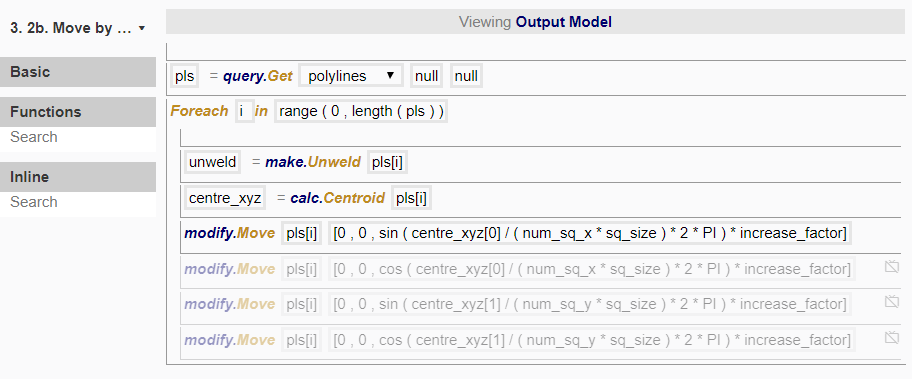
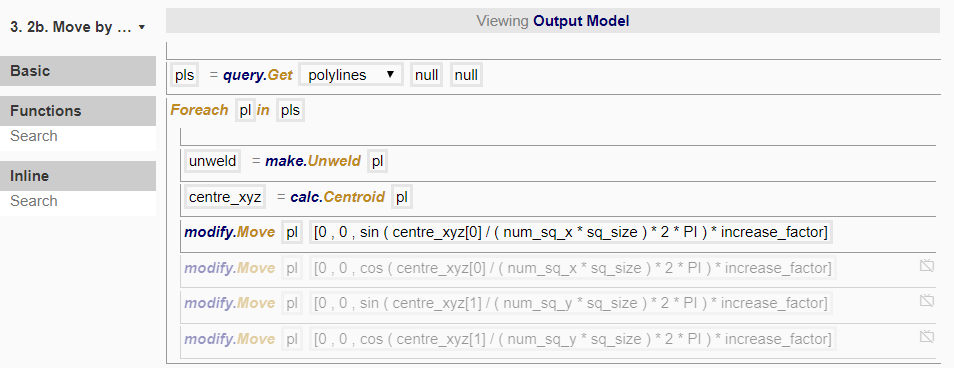
upd

Changed region(s): [[0.0, 0.1196, 1.0, 1.0], [0.4912, 0.0299, 0.6754, 0.0897], [0.0, 0.0598, 0.1535, 0.0897]]

diff --git a/contents/chapter6/6.4.3.node1.md b/contents/chapter6/6.4.3.node1.md
@@ -12,5 +12,56 @@ To do so, we created the following procedure:
 
 In order to create an alternating checkerboard pattern for the extrusion, we disable the first foreach loop and enable the second. 
 
-![Procedure](./imgs/6.4.3-example3-node1-checkerboard.png)
+![Checkerboard](./imgs/6.4.3-example3-node1-checkerboard.png)
 
+## Foreach loop
+
+Here, we are using a slightly different input for the arguments in the foreach loop. Instead of `Foreach pl in pls`, we use `Foreach i in range(0,length(pls))`. Let's break this down further.
+
+The inline function of length(list) gives the length of a list. So `length(pls)` gives the length of the list, also known as the number of polylines in the list. 
+
+The inline function of range(min,max) creates a list of numbers from min to max. So `range(0,length(pls))` creates a list of numbers starting from zero, and the number of numbers in this list is equal to the number of polylines. 
+
+As a result, *pls[0]* gives the first polyline, *pls[1]* gives the second polyline and so on, till *pls[number of polylines -1]* gives the last polyline. In order to refer to each of the polyline, we use `pls[i]`, where `i` will be equal to 0, 1, 2, 3,...number of polylines-1. 
+
+## Logic 
+
+Here we do not want to create extrusions for all the polylines, but rather only do so in a checkerboard pattern. Accordingly, we need to choose which polylines to extrude, and we can do so by creating a condition based on their index *i*. 
+
+*i* = 0 for the first polyline;
+*i* = 1 for the second polyline;
+*i* = 2 for the third polyline;...
+
+If we use `i%2==0`, the '%' sign is the modulo function, which roughly translates to "the remainder after dividing". So, `If i%2==0` means "if the remainder of *i* divided by 2 has a value equal to 0". 
+
+Setting this as the condition would return the values of *i* = 0, 2, 4, 6,... which are all even numbers. 
+
+![i%2==0](./imgs/6.4.3-example3-node1-i2even.png)
+
+Setting the condition as `If i%2==1` gives values of *i* = 1, 3, 5, 7,... which are all odd numbers. 
+
+![i%2==1](./imgs/6.4.3-example3-node1-i2odd.png)
+
+By using `If floor(i/10)%2==0`, floor(i/10) would mean rounding down the result to the nearest integer for i/10. As a result, 
+
+* *i*= 0, 1, 2, 3, 4, 5, 6, 7, 8, 9 would give `floor(i/10)`=0;
+* *i*= 10, 11, 12, 13, 14, 15, 16, 17, 18, 19 would give `floor(i/10)`=1;
+* *i*= 20, 21, 22, 23, 24, 25, 26, 27, 28, 29 would give `floor(i/10)`=2; and so on.
+
+So `If floor(i/10)%2==0` would return *i* = 0-9, 20-29, and so on. 
+
+![floor(i/10) % 2 == 0](./imgs/6.4.3-example3-node1-floori10.png)
+
+If we want to combine both alternating sequences for rows and columns, we need to use the operator '&&'. `If A = true &&B = true` means both A **and** B has to be true. If we only need either condition to be true, we will use `If A = true || B = true`, where '||' means **or**. 
+
+![floor(i/10) % 2 == 0 && i%2 == 1](./imgs/6.4.3-example3-node1-and1.png)
+
+Combining both the **and** and the **or** conditions, we get:
+`floor ( i / 10 ) % 2 == 0&&i % 2 == 1||floor ( i / 10 ) % 2 == 1&&i % 2 == 0`
+
+which in simple language means:
+if "remainder of (*i* divided by 10) divided by 2 is 0 AND remainder of *i* divided by 2 is 1" OR if "remainder of (*i* divided by 10) divided by 2 is 1 AND remainder of *i* divided by 2 is 0"
+
+This condition gives the final result of the checkerboard pattern. 
+
+![Final condition](./imgs/6.4.3-example3-node1-finalchecker.png)

diff --git a/contents/chapter6/6.3.4.node2.md b/contents/chapter6/6.3.4.node2.md
@@ -9,6 +9,18 @@ To do so, we created the following procedure:
 
 ![Procedure](./imgs/6.3.4-example2-node2-procedure.png)
 
-Using different combinations of z_displ would produce different translations:
+## degToRad
+
+We have used the inline function degToRad here to convert "wave_shift", which is in degrees, to radians, as the sincoswave function uses radians. Since all existing functions use radians, you can also use this inline function if you prefer to use degrees instead of radians directly. 
+
+## Export
+
+util.ExportData allows you to export the model geometry in the geo-info (gi) format or the obj format. The gi format is specific to Möbius and we will export the geometry to be used in Example 3. 
+
+Once you export the geometry, you are able to use it directly by importing it without the need to run all the lines of code used to create it. This is helpful if you have already fixed certain parameters at desired values, and want the remaining transformations to be executed faster in the program (since it uses the geometry directly without computing it). However, the downside is that you are no longer able to use the previous sliders that you created to vary the output, since the geometry is fixed at the values at the point of exporting. 
+
+## Variations
+
+In Example 1 Node 2c, we mentioned that you are able to use different combinations by adding them in the argument itself. Here, instead of creating many modify.Move functions, using different combinations of z_displ would produce different translations:
 
 ![Variations](./imgs/6.3.4-example2-node2-variations.gif)

diff --git a/contents/chapter6/6.2.5.node2c.md b/contents/chapter6/6.2.5.node2c.md
@@ -1,6 +1,6 @@
 # Node 2c
 
-In this node, we want to move each rectangle upwards depending on its position in the grid, in a way such that it the overall pattern resembles a combination of the results of nodes 3a and 3b. 
+In this node, we want to move each rectangle upwards depending on its position in the grid, in a way such that it the overall pattern resembles a combination of the results of nodes 2a and 2b. 
 
 ![Result](./imgs/6.2.5-example1-node2c-endresult.png)
 *Top: (1) sin(x)+y (2) cos(x)+y (3) sin(x)+x+y (4) cos(x)+x+y*
@@ -10,6 +10,18 @@ To do so, we created the following procedure:
 
 ![Procedure](./imgs/6.2.5-example1-node2c-procedure.png)
 
-Enabling and disabling different combinations of lines would produce different translations:
+## Combination of values
+
+In the procedure above, we copied and pasted the lines of functions from nodes 2a and 2b to this node. 
+
+Enabling and disabling different combinations of these lines would produce different translations:
 
 ![Variations](./imgs/6.2.5-example1-node2c-variations.gif)
+
+However, if we know with certainty what we wish to produce as an end result, instead of having multiple lines of code, we can combine the values. 
+
+For example, if we have the folllowing two lines: 
+* `modify.Move( pls[i], [0, 0, a] )` and 
+* `modify.Move( pls[i], [0, 0, b] )`, 
+
+We can simply use `modify.Move( pls[i], [0, 0, a+b] )` instead to replace the two lines of code. 

diff --git a/contents/chapter6/6.4.4.node2.md b/contents/chapter6/6.4.4.node2.md
@@ -7,3 +7,9 @@ In this node, we want to rotate the model from lying on the horizontal plane to 
 To do so, we created the following procedure:
 
 ![Procedure](./imgs/6.4.4-example3-node2-procedure.png)
+
+First, we get the polylines and polygons in the model (i.e. all the geometry in the model, since these are the only two that we have created so far) using the query.Get function. Each query gives us a list of IDs. 
+
+Next, we combine the list of IDs into a single list by list.Concat, which is short for concatenate. This creates a single list with all the IDs of both polylines and polygons.
+
+Lastly, we rotate all these geometry by the y-axis around the origin by -PI/2 (or -90 degrees). 

diff --git a/contents/chapter6/6.3.1.startnode.md b/contents/chapter6/6.3.1.startnode.md
@@ -2,7 +2,7 @@
 
 ## Input parameters
 
-We will maintain the two sliders and one simple input for variables *num_sq_x*, *num_sq_y*, *sq_size*, *increase_factor* and *decrease_factor* from Example 1.
+We will maintain the two sliders and three simple inputs for variables (*num_sq_x*, *num_sq_y*, *sq_size*, *increase_factor* and *decrease_factor*) from Example 1.
 
 In Example 1, we used the sin and cos functions to create the corresponding wave patterns through displacement. In Example 2, we want to be able to translate the wave graph through an additional variable *wave_shift*. 
 

diff --git a/contents/chapter6/6.4.1.startnode.md b/contents/chapter6/6.4.1.startnode.md
@@ -2,6 +2,6 @@
 
 ## Input parameters
 
-We will add a .txt file that is produced by exporting geometry from Example 2, and name the variable defining the file as "wave".
+We will add a .txt file that is produced by exporting geometry from Example 2, and name the variable defining the file as *wave_model*.
 
 ![Parameter Values](./imgs/6.4.1-example3-startnode-parametervalues.png)
